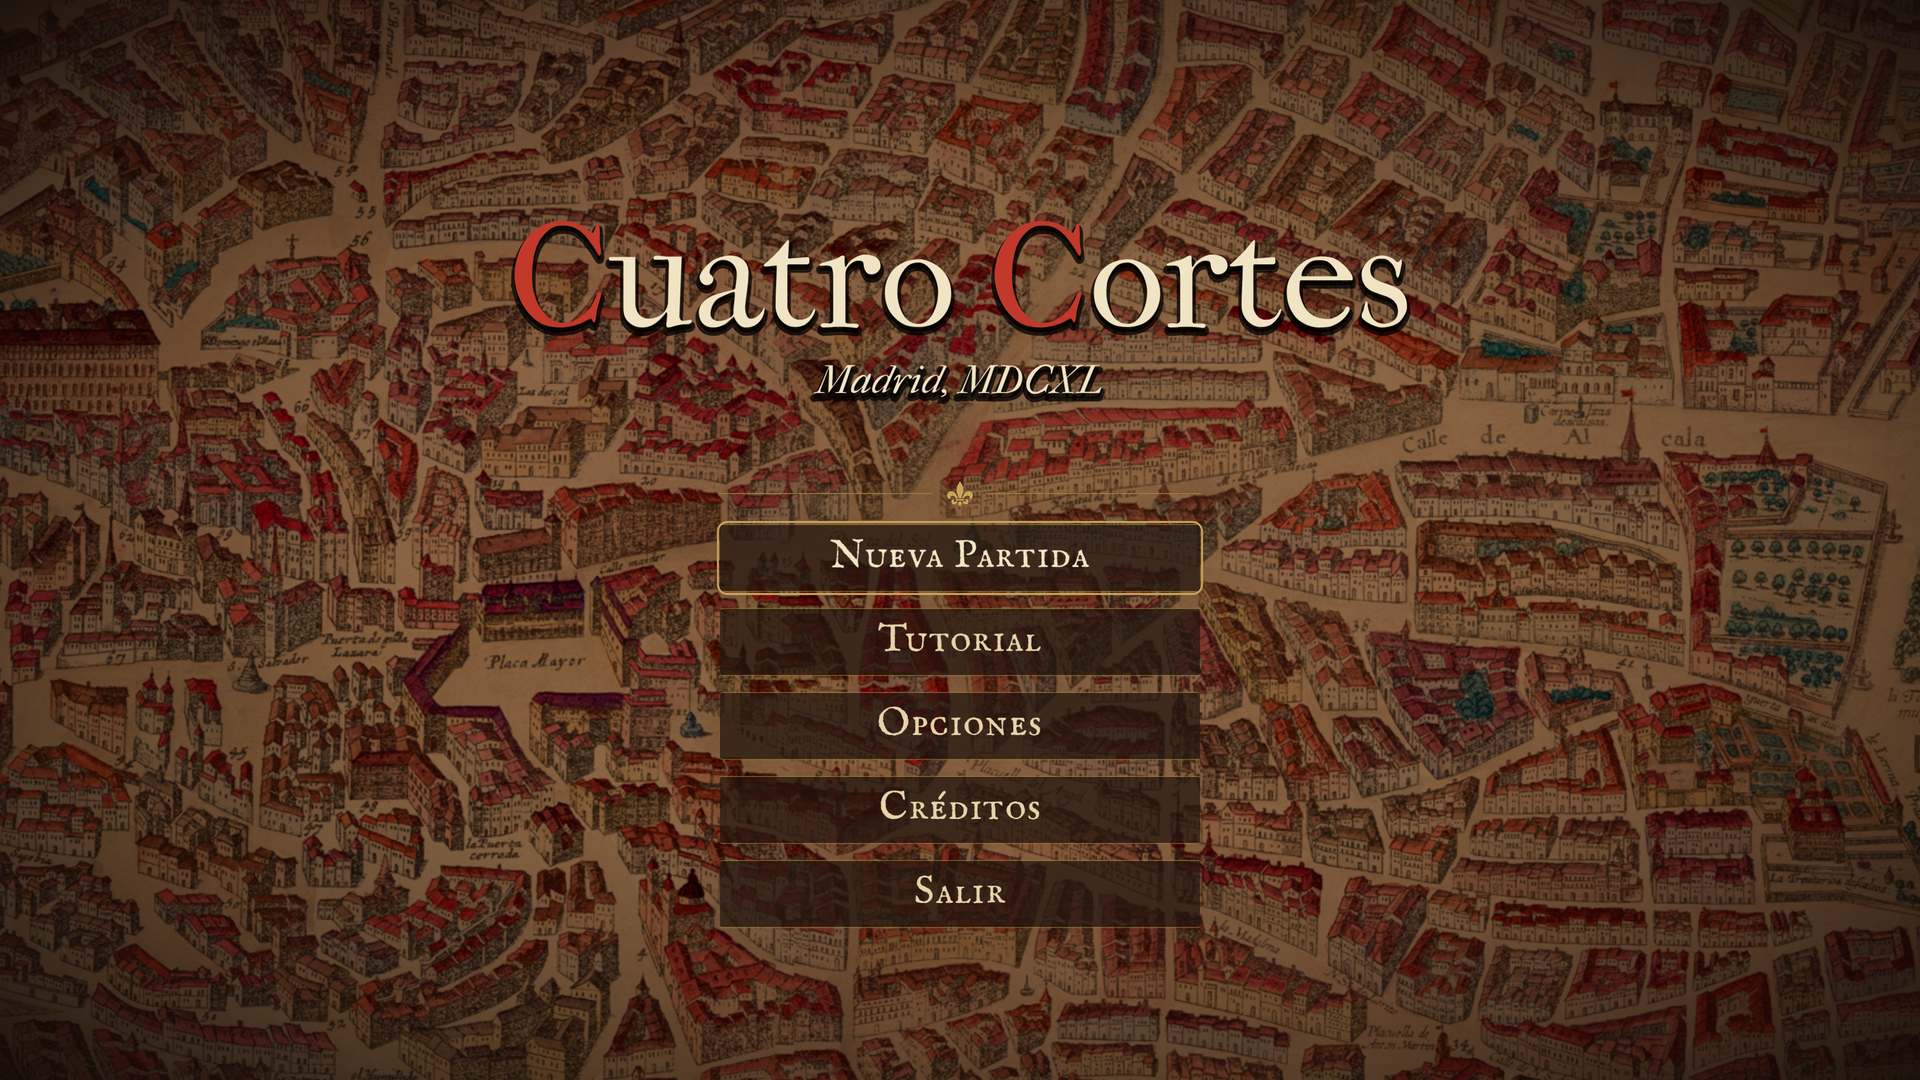
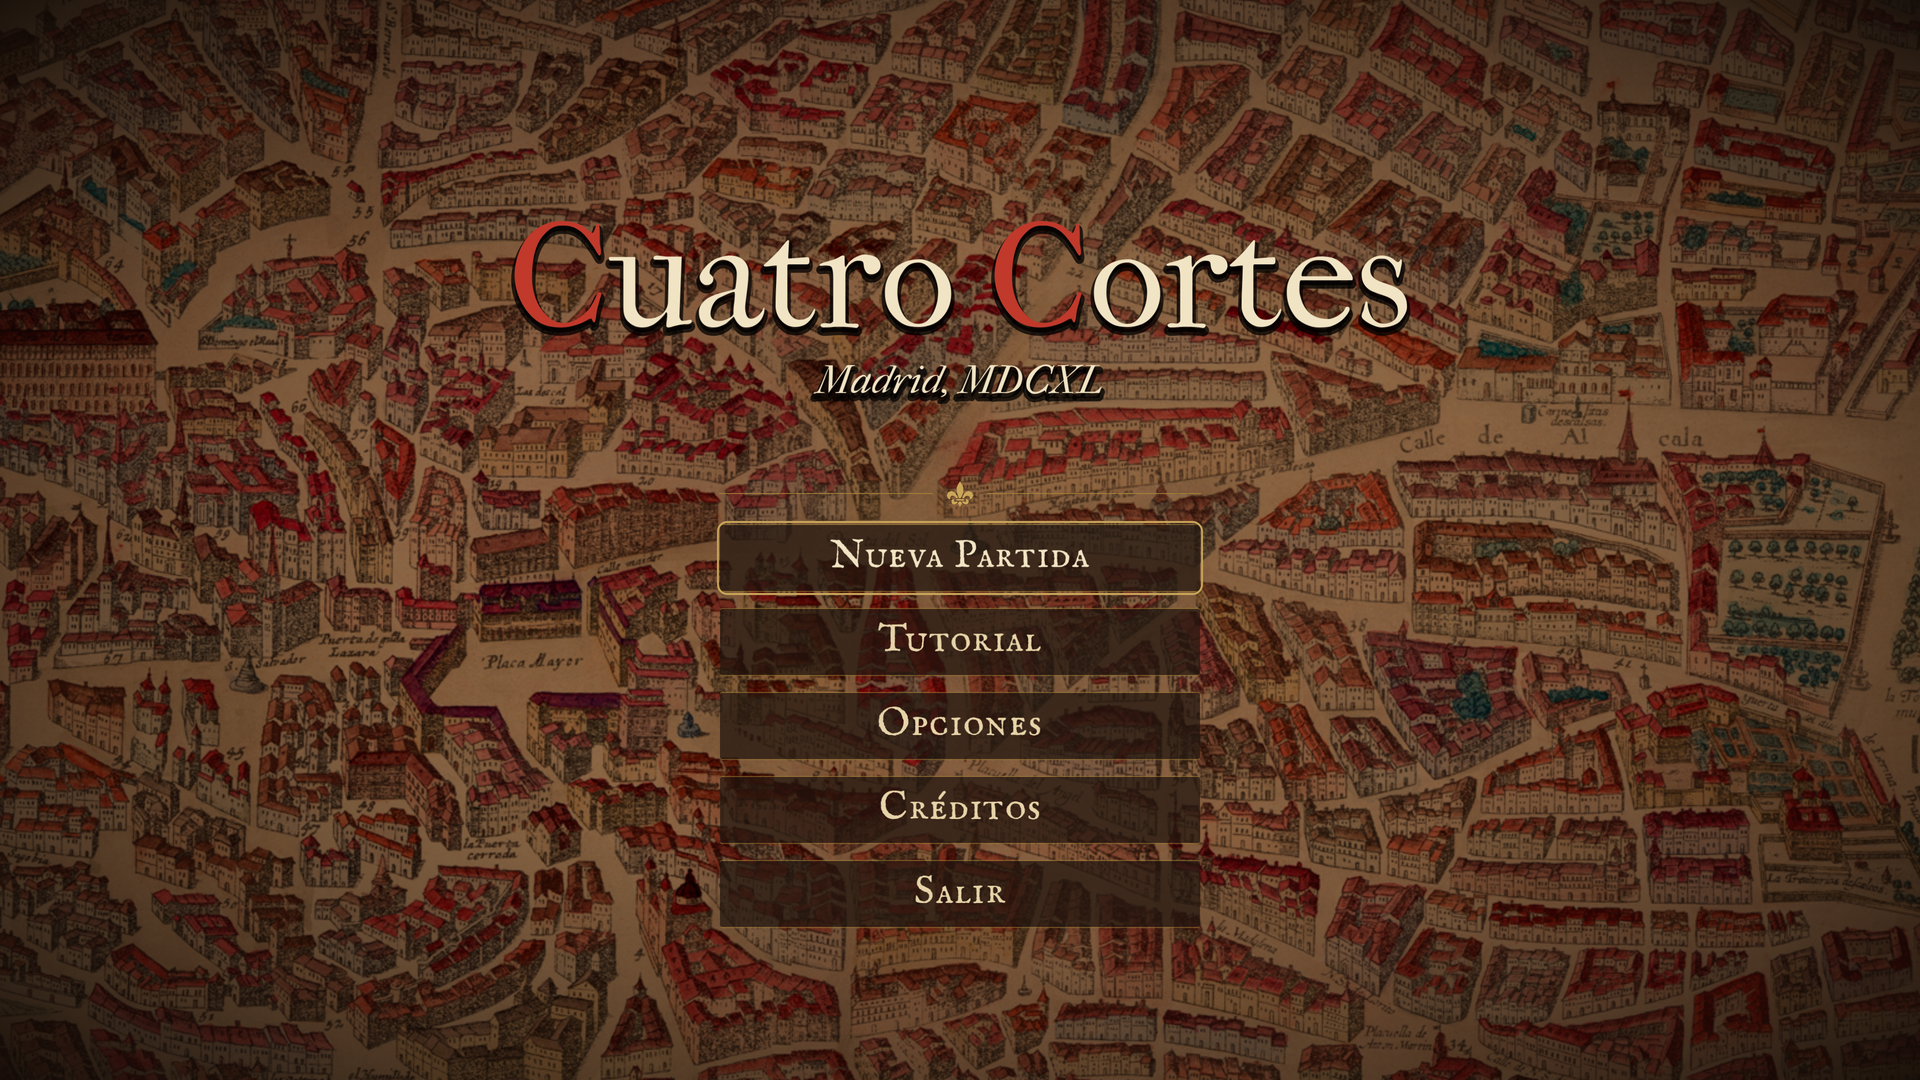
Villa de Olivares con imagen propia, lacres sin parpadeo con movimiento reducido y capturas
- resources/villa_olivares.png: casa con patio porticado y parterre, compuesta a partir de mercado.png y jardin.png (arte propio; script en tools/villa_olivares.py, créditos en assets/ui/CREDITS.md). buildings.txt fila 0 la usa.
- Ficha de edificio: ilustración a 300 px (antes 170, quedaba hueca).
- mission_button.gd: con reducir movimiento el lacre se queda iluminado en lugar de parpadear.
- Capturas en español e inglés, con pausa, opciones en pausa y arrastre.

diff --git a/tools/villa_olivares.py b/tools/villa_olivares.py
@@ -1,0 +1,54 @@
+# Compone resources/villa_olivares.png a partir de dos ilustraciones del propio juego:
+# el patio porticado de mercado.png con el parterre de jardin.png, sin el rótulo de la puerta.
+# Uso: python3 tools/villa_olivares.py <carpeta de salida> <raíz del proyecto>
+import sys
+import numpy as np
+from PIL import Image, ImageDraw, ImageFilter
+
+S = sys.argv[1]
+ROOT = sys.argv[2]
+POLY = [(70, 245), (250, 152), (440, 245), (445, 252), (258, 378), (70, 262)]
+GATE = [(124, 281), (131, 275), (158, 270), (192, 304), (192, 352), (124, 352)]
+m = Image.open(ROOT + '/resources/mercado.png').convert('RGBA')
+j = Image.open(ROOT + '/resources/jardin.png').convert('RGBA')
+layer = Image.new('RGBA', m.size, (0, 0, 0, 0))
+layer.alpha_composite(j, (0, 8))
+mask = Image.new('L', m.size, 0)
+d = ImageDraw.Draw(mask)
+d.polygon(POLY, fill=255)
+d.polygon(GATE, fill=0)
+mask = mask.filter(ImageFilter.GaussianBlur(1.0))
+out = m.copy()
+out.paste(layer, (0, 0), Image.composite(layer.getchannel('A'), Image.new('L', m.size, 0), mask))
+
+# Borrar las letras del friso: píxeles oscuros en la banda del rótulo
+a = np.array(out).astype(float)
+band = Image.new('L', m.size, 0)
+ImageDraw.Draw(band).polygon([(138, 283), (146, 282), (178, 303), (176, 312), (138, 292)], fill=255)
+band = np.array(band) > 0
+lum = a[..., :3].mean(2)
+txt = band & (lum < 150)
+txt = np.array(Image.fromarray((txt * 255).astype(np.uint8)).filter(ImageFilter.MaxFilter(3))) > 0
+known = ~txt
+for _ in range(12):
+    acc = np.zeros_like(a)
+    cnt = np.zeros(a.shape[:2])
+    for dy in (-1, 0, 1):
+        for dx in (-1, 0, 1):
+            sh = np.roll(np.roll(a, dy, 0), dx, 1)
+            kn = np.roll(np.roll(known, dy, 0), dx, 1)
+            acc += sh * kn[..., None]
+            cnt += kn
+    fill = (~known) & (cnt > 0)
+    a[fill] = acc[fill] / cnt[fill][:, None]
+    known = known | fill
+out = Image.fromarray(a.clip(0, 255).astype(np.uint8), 'RGBA')
+out.save(S + '/villa_olivares.png')
+big = out.resize((1000, 1000), Image.LANCZOS)
+bg = Image.new('RGBA', big.size, (255, 255, 255, 255))
+bg.alpha_composite(big)
+bg.save(S + '/villa_view.png')
+z = out.crop((100, 250, 220, 380)).resize((480, 520), Image.LANCZOS)
+bz = Image.new('RGBA', z.size, (255, 255, 255, 255))
+bz.alpha_composite(z)
+bz.save(S + '/villa_puerta.png')

diff --git a/assets/ui/CREDITS.md b/assets/ui/CREDITS.md
@@ -41,3 +41,9 @@ Escaneos de ambientCG (https://ambientcg.com, licencia https://docs.ambientcg.co
 | `textures/src/Leather026_1K-JPG_Color.jpg` | https://ambientcg.com/view?id=Leather026 |
 
 Las texturas finales de `textures/*.png` (pergamino, cuero, botones de lacre, viñeta) se generan a partir de esos escaneos con `tools/ui_textures.py`; son obra derivada propia del proyecto.
+
+## Ilustraciones derivadas
+
+| Fichero | Origen | Licencia |
+|---|---|---|
+| `resources/villa_olivares.png` | Composición de `resources/mercado.png` (patio porticado) y `resources/jardin.png` (parterre), ilustraciones originales del juego; se quitan los puestos y el rótulo «Mercado». Script: `tools/villa_olivares.py`. | Arte propio del proyecto |
